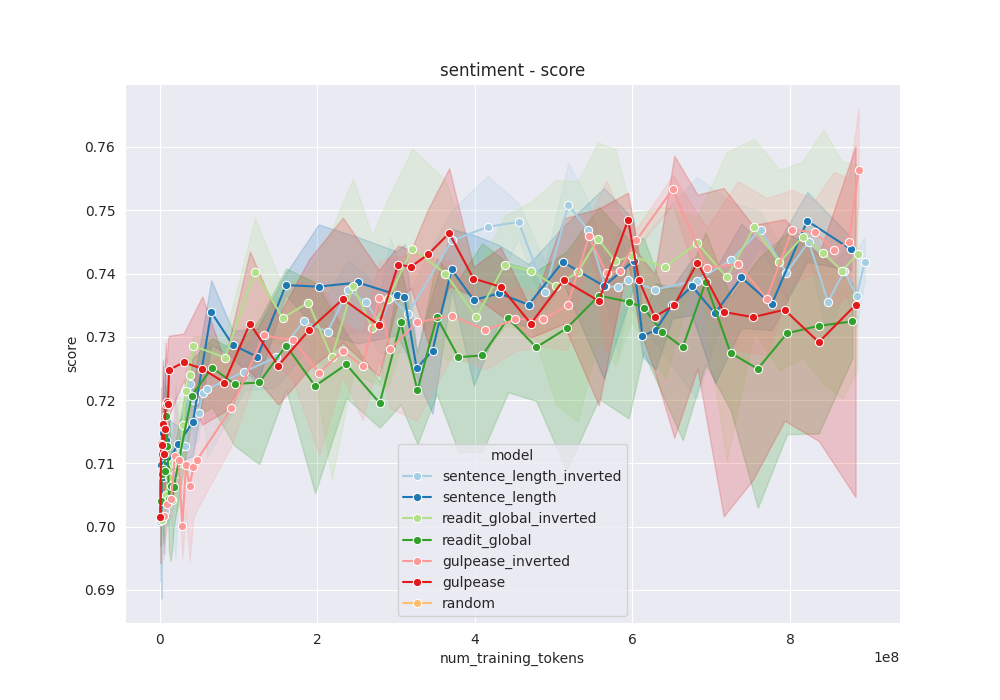
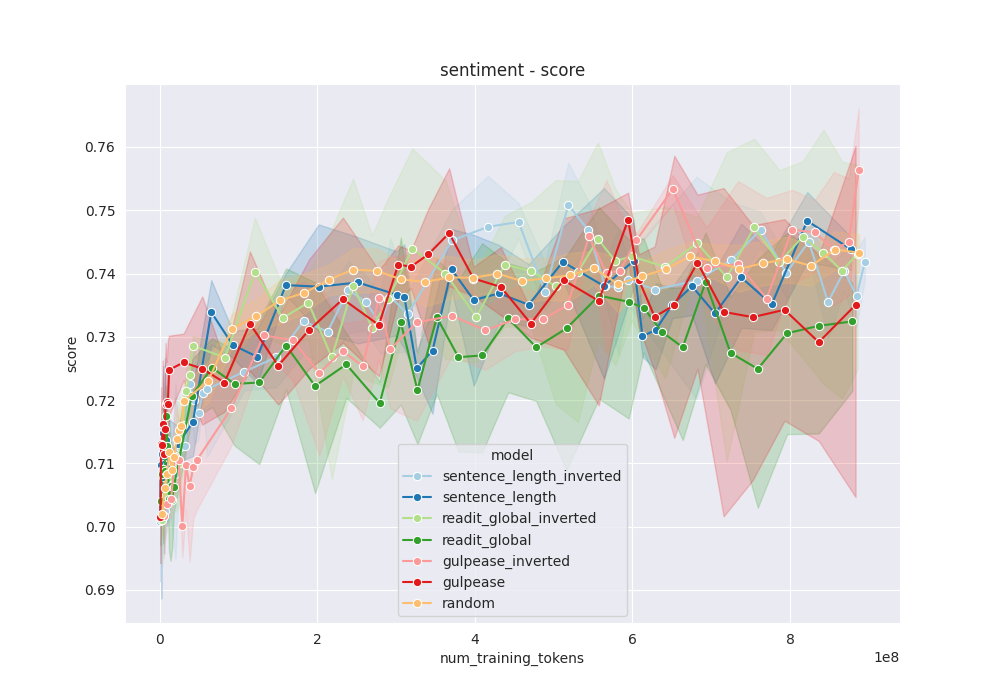
enhanced results visualization

diff --git a/scripts/eval/perplexity_eval.py b/scripts/eval/perplexity_eval.py
@@ -1,4 +1,4 @@
-from utils import get_seaborn_palette, map_checkpoints_to_tokens, normalize_model_name
+from utils import get_seaborn_palette, map_checkpoints_to_tokens, normalize_model_name, aggregate_random_results
 import matplotlib.pyplot as plt
 import seaborn as sns
 import pandas as pd
@@ -59,19 +59,35 @@ def plot_results(res_df, output_path, model_seed, average_random=False, min_chec
     res_df['model'] = res_df['model'].apply(lambda x: normalize_model_name(x, model_seed, average_random))
     x_key = 'num_training_tokens' if checkpoint_tokens_map is not None else 'checkpoint'
 
+    if checkpoint_tokens_map:
+        res_df = aggregate_random_results(res_df)
+
     for metric in sorted(list(res_df['metric'].unique())):
         metric_df = res_df[res_df['metric'] == metric]
 
-        if min_checkpoint is not None:
-            metric_df = metric_df[metric_df['checkpoint'] >= min_checkpoint]
         _, axes = plt.subplots(2, 1, figsize=(10, 15))
         for idx, dataset in enumerate(['treebank', 'wikipedia']):
             dataset_df = metric_df[metric_df['dataset'] == dataset]
             sns.lineplot(data=dataset_df, x=x_key, y='score', hue='model', hue_order=sorted_models, palette=palette, marker='o', legend=True, ax=axes[idx])
             axes[idx].set_title(f'{metric}, {dataset}')
-            # axes[idx].set_ylim(0, 100)
-        plt.savefig(f'{output_path}{metric}.png') 
+            ymax = dataset_df['score'].quantile(0.80)
+            line_mins = []
+            for line in axes[idx].lines:
+                ydata = line.get_ydata()
+                if len(ydata) > 0:
+                    line_mins.append(min(ydata))
+            ymin = min(line_mins)-30
+            axes[idx].set_ylim(ymin=ymin, ymax=ymax)
+            axes[idx].axhline(y=ymax, color='gray', linestyle='--', alpha=0.6)
+            axes[idx].text(
+                x=0.02, y=ymax, s='values above this line not shown',
+                transform=axes[idx].get_yaxis_transform(),
+                fontsize=8, color='gray', va='bottom'
+            )
+
+        plt.savefig(f'{output_path}{metric}_filter_y.png') 
         plt.show()
+
 
 def load_checkpoint_tokens_map(src_dir):
     checkpoint_tokens_map = {}

diff --git a/scripts/eval/downstream_task_eval.py b/scripts/eval/downstream_task_eval.py
@@ -1,4 +1,4 @@
-from utils import get_seaborn_palette, load_checkpoint_tokens_map, normalize_model_name, map_checkpoints_to_tokens
+from utils import get_seaborn_palette, load_checkpoint_tokens_map, normalize_model_name, map_checkpoints_to_tokens, aggregate_random_results
 import matplotlib.pyplot as plt
 import seaborn as sns
 import pandas as pd
@@ -12,7 +12,7 @@ TASKS_METRICS = {
     'coherence': ['accuracy', 'f1'],
     'complexity': ['mae', 'spearmanr'],
     'sentiment': ['neg_f1', 'pos_f1'],#['neg_accuracy', 'neg_f1', 'pos_accuracy', 'pos_f1'],
-    'pos_tagging': ['f1', 'accuracy']
+    'pos_tagging': ['f1'] #, 'accuracy']
 }
 
 HUE_ORDER = ['sentence_length_inverted', 'sentence_length', 'readit_global_inverted', 'readit_global', 'gulpease_inverted', 'gulpease', 'random']
@@ -81,6 +81,8 @@ def plot_results(res_df, task, output_path, model_seed, checkpoint_tokens_map=No
         res_df = map_checkpoints_to_tokens(res_df, checkpoint_tokens_map)
     
     res_df['model'] = res_df['model'].apply(lambda x: normalize_model_name(x, model_seed, average_random))
+    if checkpoint_tokens_map:
+        res_df = aggregate_random_results(res_df)
 
     x_key = 'num_training_tokens' if checkpoint_tokens_map is not None else 'checkpoint'
 
@@ -118,7 +120,7 @@ def main():
     if args.model_seed is not None:
         output_path = f'results/{args.model_name}/seed_{args.model_seed}/{args.model_name}_{args.downstream_task}'   
     else:
-        output_path = f'results/{args.model_name}_{args.downstream_task}'
+        output_path = f'results/{args.model_name}/{args.model_name}_{args.downstream_task}'
     if args.num_tokens_map:
         output_path = 'num_tokens_' + output_path 
 

diff --git a/scripts/eval/utils.py b/scripts/eval/utils.py
@@ -1,4 +1,5 @@
 import seaborn as sns
+import pandas as pd
 import json
 import os
 
@@ -62,3 +63,25 @@ def load_checkpoint_tokens_map(src_dir):
             curriculum_map = json.load(src_file)
         checkpoint_tokens_map[curriculum] = curriculum_map
     return checkpoint_tokens_map
+
+# Different random models have slightly different number of seen tokens on training checkpoints. 
+# This method aggregates both the number of checkpoints and the models scores at that checkpoint.
+
+def aggregate_random_results(res_df):
+    df_random = res_df[res_df['model'] == 'random']
+    df_non_random = res_df[res_df['model'] != 'random']
+
+    avg_tokens = (
+        df_random
+        .groupby('checkpoint')['num_training_tokens']
+        .mean()
+        .rename('avg_num_training_tokens')
+    )
+
+    df_random = df_random.merge(avg_tokens, on='checkpoint')
+    df_random['num_training_tokens'] = df_random['avg_num_training_tokens']
+    df_random = df_random.drop(columns='avg_num_training_tokens')
+
+    df_final = pd.concat([df_random, df_non_random], ignore_index=True)
+
+    return df_final

diff --git a/scripts/eval/plot_training_loss.py b/scripts/eval/plot_training_loss.py
@@ -48,6 +48,7 @@ def create_loss_df(models_dir, seed, average_random=False):
     return loss_df
 
 def plot_loss(loss_df, output_path, average_random=False):
+    loss_df = loss_df[loss_df['epoch'] <= 0.5]
     sorted_models = sorted(list(loss_df['curriculum'].unique()), reverse=True) if not average_random else HUE_ORDER
     palette = get_seaborn_palette(len(sorted_models))
     sns.lineplot(loss_df, x='epoch', y='loss', hue='curriculum', palette=palette, hue_order=sorted_models, legend=True);
@@ -82,7 +83,7 @@ def main():
         loss_dfs.append(loss_df)
     if args.model_seed is None:
         all_loss_dfs = pd.concat(loss_dfs)
-        output_path = f'results/{args.model_type}/{args.model_type}_medium_training_loss.png'
+        output_path = f'results/{args.model_type}/first_steps_{args.model_type}_medium_training_loss.png'
         plot_loss(all_loss_dfs, output_path, average_random=args.average_random)    
         
         
